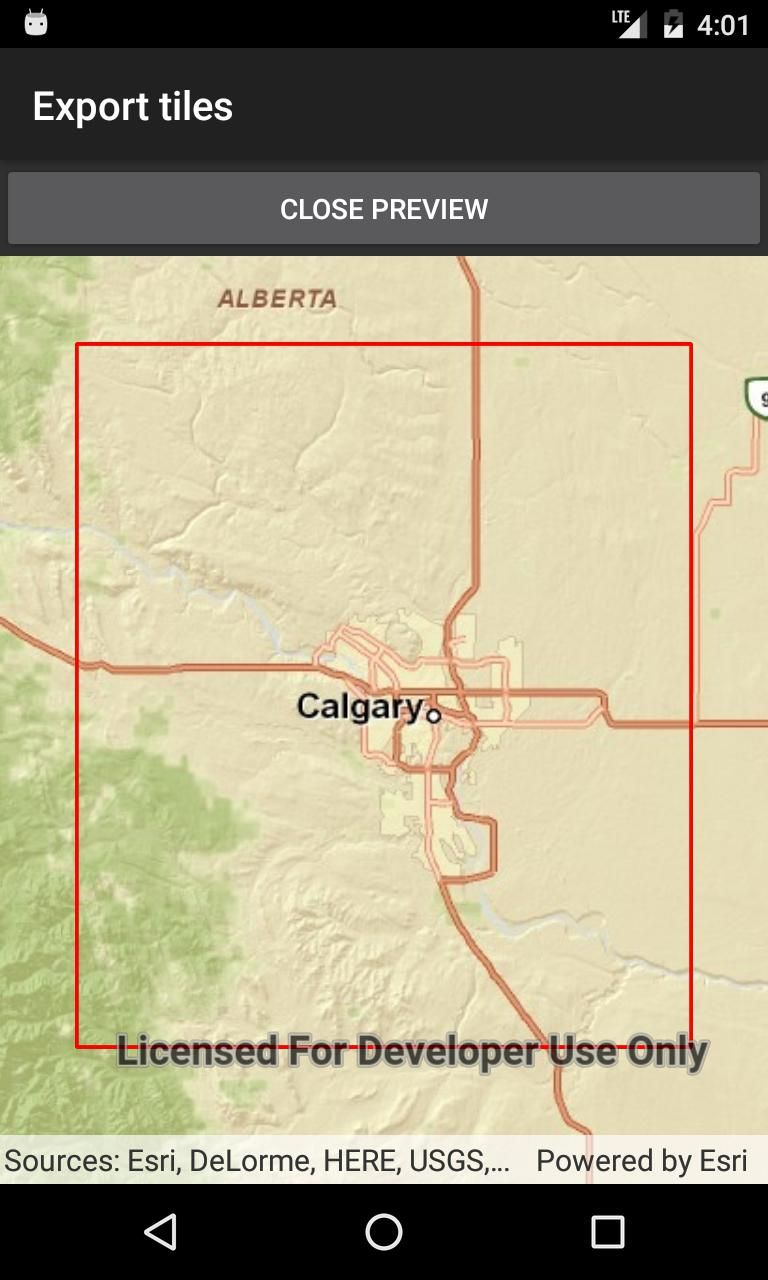
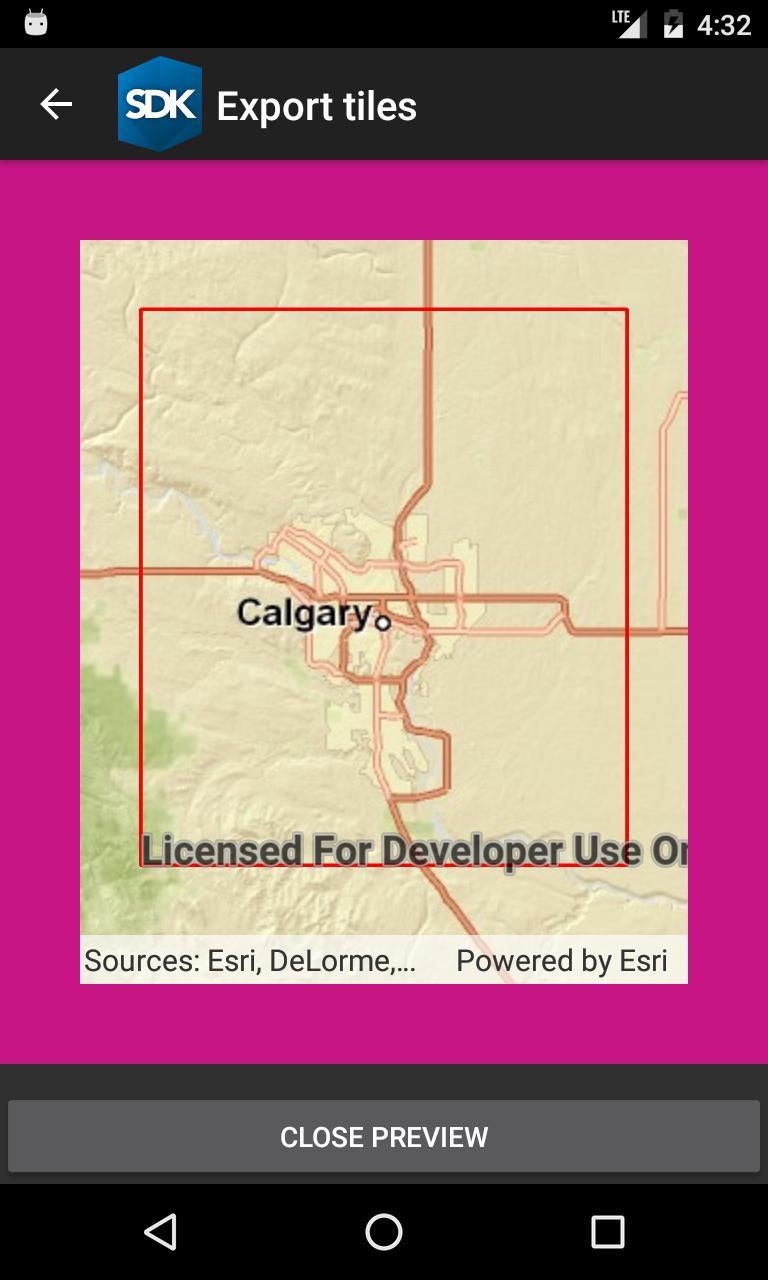
Updates to Android UI

diff --git a/src/Android/Xamarin.Android/Samples/Layers/ExportTiles/ExportTiles.cs b/src/Android/Xamarin.Android/Samples/Layers/ExportTiles/ExportTiles.cs
@@ -31,6 +31,9 @@ namespace ArcGISRuntimeXamarin.Samples.ExportTiles
         // Reference to the base tiled map
         private Map _basemap;
 
+        // Reference to the viewpoint (for previewing)
+        private Viewpoint _originalViewpoint;
+
         // Reference to the progress bar
         private ProgressBar _myProgressBar;
 
@@ -42,6 +45,9 @@ namespace ArcGISRuntimeXamarin.Samples.ExportTiles
 
         // Flag to indicate if an exported cache is being previewed
         private bool _previewOpen = false;
+
+        // Layout container for setting a margin on the mapview
+        private RelativeLayout _layoutContainer;
 
         protected override void OnCreate(Bundle bundle)
         {
@@ -64,6 +70,10 @@ namespace ArcGISRuntimeXamarin.Samples.ExportTiles
             // Create the mapview
             _myMapView = new MapView();
 
+            // Create the mapview's container
+            _layoutContainer = new RelativeLayout(this);
+            _layoutContainer.AddView(_myMapView);
+
             // Create the progress bar
             _myProgressBar = new ProgressBar(this)
             {
@@ -83,7 +93,10 @@ namespace ArcGISRuntimeXamarin.Samples.ExportTiles
             // Add views to the layout
             layout.AddView(_myProgressBar);
             layout.AddView(_myExportButton);
-            layout.AddView(_myMapView);
+            layout.AddView(_layoutContainer);
+
+            // Set the layout background color
+            layout.SetBackgroundColor(Android.Graphics.Color.MediumVioletRed);
 
             // Set the layout as the sample view
             SetContentView(layout);
@@ -248,6 +261,9 @@ namespace ArcGISRuntimeXamarin.Samples.ExportTiles
                 //     this method is called from a thread other than the UI thread
                 RunOnUiThread(() =>
                 {
+                    // Store the original map viewpoint
+                    _originalViewpoint = _myMapView.GetCurrentViewpoint(ViewpointType.BoundingGeometry);
+
                     // Show the exported tiles on the preview map
                     UpdatePreviewMap();
 
@@ -304,6 +320,9 @@ namespace ArcGISRuntimeXamarin.Samples.ExportTiles
 
             // Apply the map to the mapview
             _myMapView.Map = previewMap;
+
+			// Set the margin
+			SetMapviewMargin(40);
         }
 
         /// <summary>
@@ -325,6 +344,12 @@ namespace ArcGISRuntimeXamarin.Samples.ExportTiles
                 // Apply the old basemap
                 _myMapView.Map = _basemap;
 
+                // Apply the old viewpoint
+                _myMapView.SetViewpoint(_originalViewpoint);
+
+                // Reset the margin
+                SetMapviewMargin(0);
+
                 // Change the button text
                 _myExportButton.Text = "Export Tiles";
 
@@ -341,6 +366,21 @@ namespace ArcGISRuntimeXamarin.Samples.ExportTiles
             // Display the message to the user
             var builder = new AlertDialog.Builder(this);
             builder.SetMessage(message).SetTitle("Alert").Show();
+        }
+
+        /// <summary>
+        /// Helper method applies the specified margin to the mapview's container 
+        /// </summary>
+        private void SetMapviewMargin(int margin)
+        {
+            // Get the layout parameters for the container
+            RelativeLayout.LayoutParams paramaters = (RelativeLayout.LayoutParams)_layoutContainer.LayoutParameters;
+
+            // Set the margins
+            paramaters.SetMargins(margin,margin,margin,margin);
+
+            // Apply the layout
+            _layoutContainer.LayoutParameters = paramaters;
         }
     }
 }
